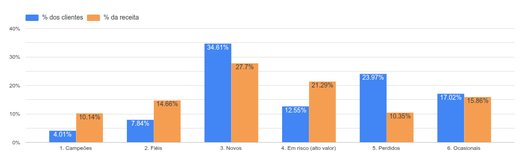
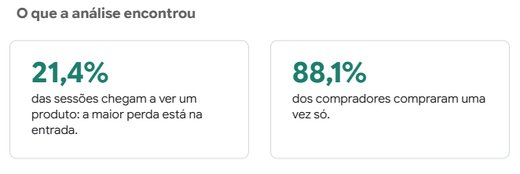
Projeto de retenção: imagem nova da Visão geral e a recomendação

diff --git a/index.html b/index.html
@@ -532,13 +532,13 @@ section[id] { scroll-margin-top: 72px; }
       <p class="intro">Projetos públicos, com dados abertos, código aberto e painel no ar. Novos projetos entram aqui conforme ficam prontos.</p>
       <article class="projeto">
         <a class="quadro" href="https://datastudio.google.com/reporting/c90a7ec2-8e4d-4aaf-8732-3090e4bda3d7" aria-label="Abrir o painel Clientes e retenção numa loja online">
-          <picture><source media="(max-width: 520px)" srcset="assets/retencao-celular.jpg" width="520" height="164"><img src="assets/retencao.jpg" width="800" height="518" alt="Gráfico de barras com a parte dos clientes e a parte da receita de cada segmento, com a tabela dos seis segmentos abaixo" loading="lazy"></picture>
+          <picture><source media="(max-width: 520px)" srcset="assets/retencao-celular.jpg" width="520" height="174"><img src="assets/retencao.jpg" width="800" height="535" alt="Visão geral do painel: quatro números do período, quatro cartões com os achados em destaque e a recomendação" loading="lazy"></picture>
         </a>
         <div class="texto">
           <h3>Clientes e retenção numa loja online</h3>
           <p class="comprova">A pergunta: quais clientes valem a pena reter, e onde a loja perde os outros?</p>
           <p>Com os eventos públicos do GA4 da loja do Google no BigQuery, o projeto mede o funil até a compra, a recompra por coorte semanal e os segmentos de clientes por recência, frequência e valor.</p>
-          <p>Os clientes que gastaram muito e sumiram são 12,55% dos compradores e 21,29% da receita. Um teste de proporções mostra que o canal muda a conversão (indicação 1,66%, mídia paga 0,98%) e que o dispositivo não muda na prática.</p>
+          <p>Os clientes que gastaram muito e sumiram são 12,55% dos compradores e 21,29% da receita. Um teste de proporções mostra que o canal muda a conversão (indicação 1,66%, mídia paga 0,98%) e que o dispositivo não muda na prática. A recomendação: reativar primeiro esse grupo.</p>
           <ul class="ferramentas" aria-label="Ferramentas do projeto"><li>SQL</li><li>BigQuery</li><li>GA4</li><li>Python e SciPy</li><li>Data Studio</li><li>pytest</li></ul>
           <div class="acoes">
             <a class="botao cheio" href="https://datastudio.google.com/reporting/c90a7ec2-8e4d-4aaf-8732-3090e4bda3d7">Ver o painel</a>
